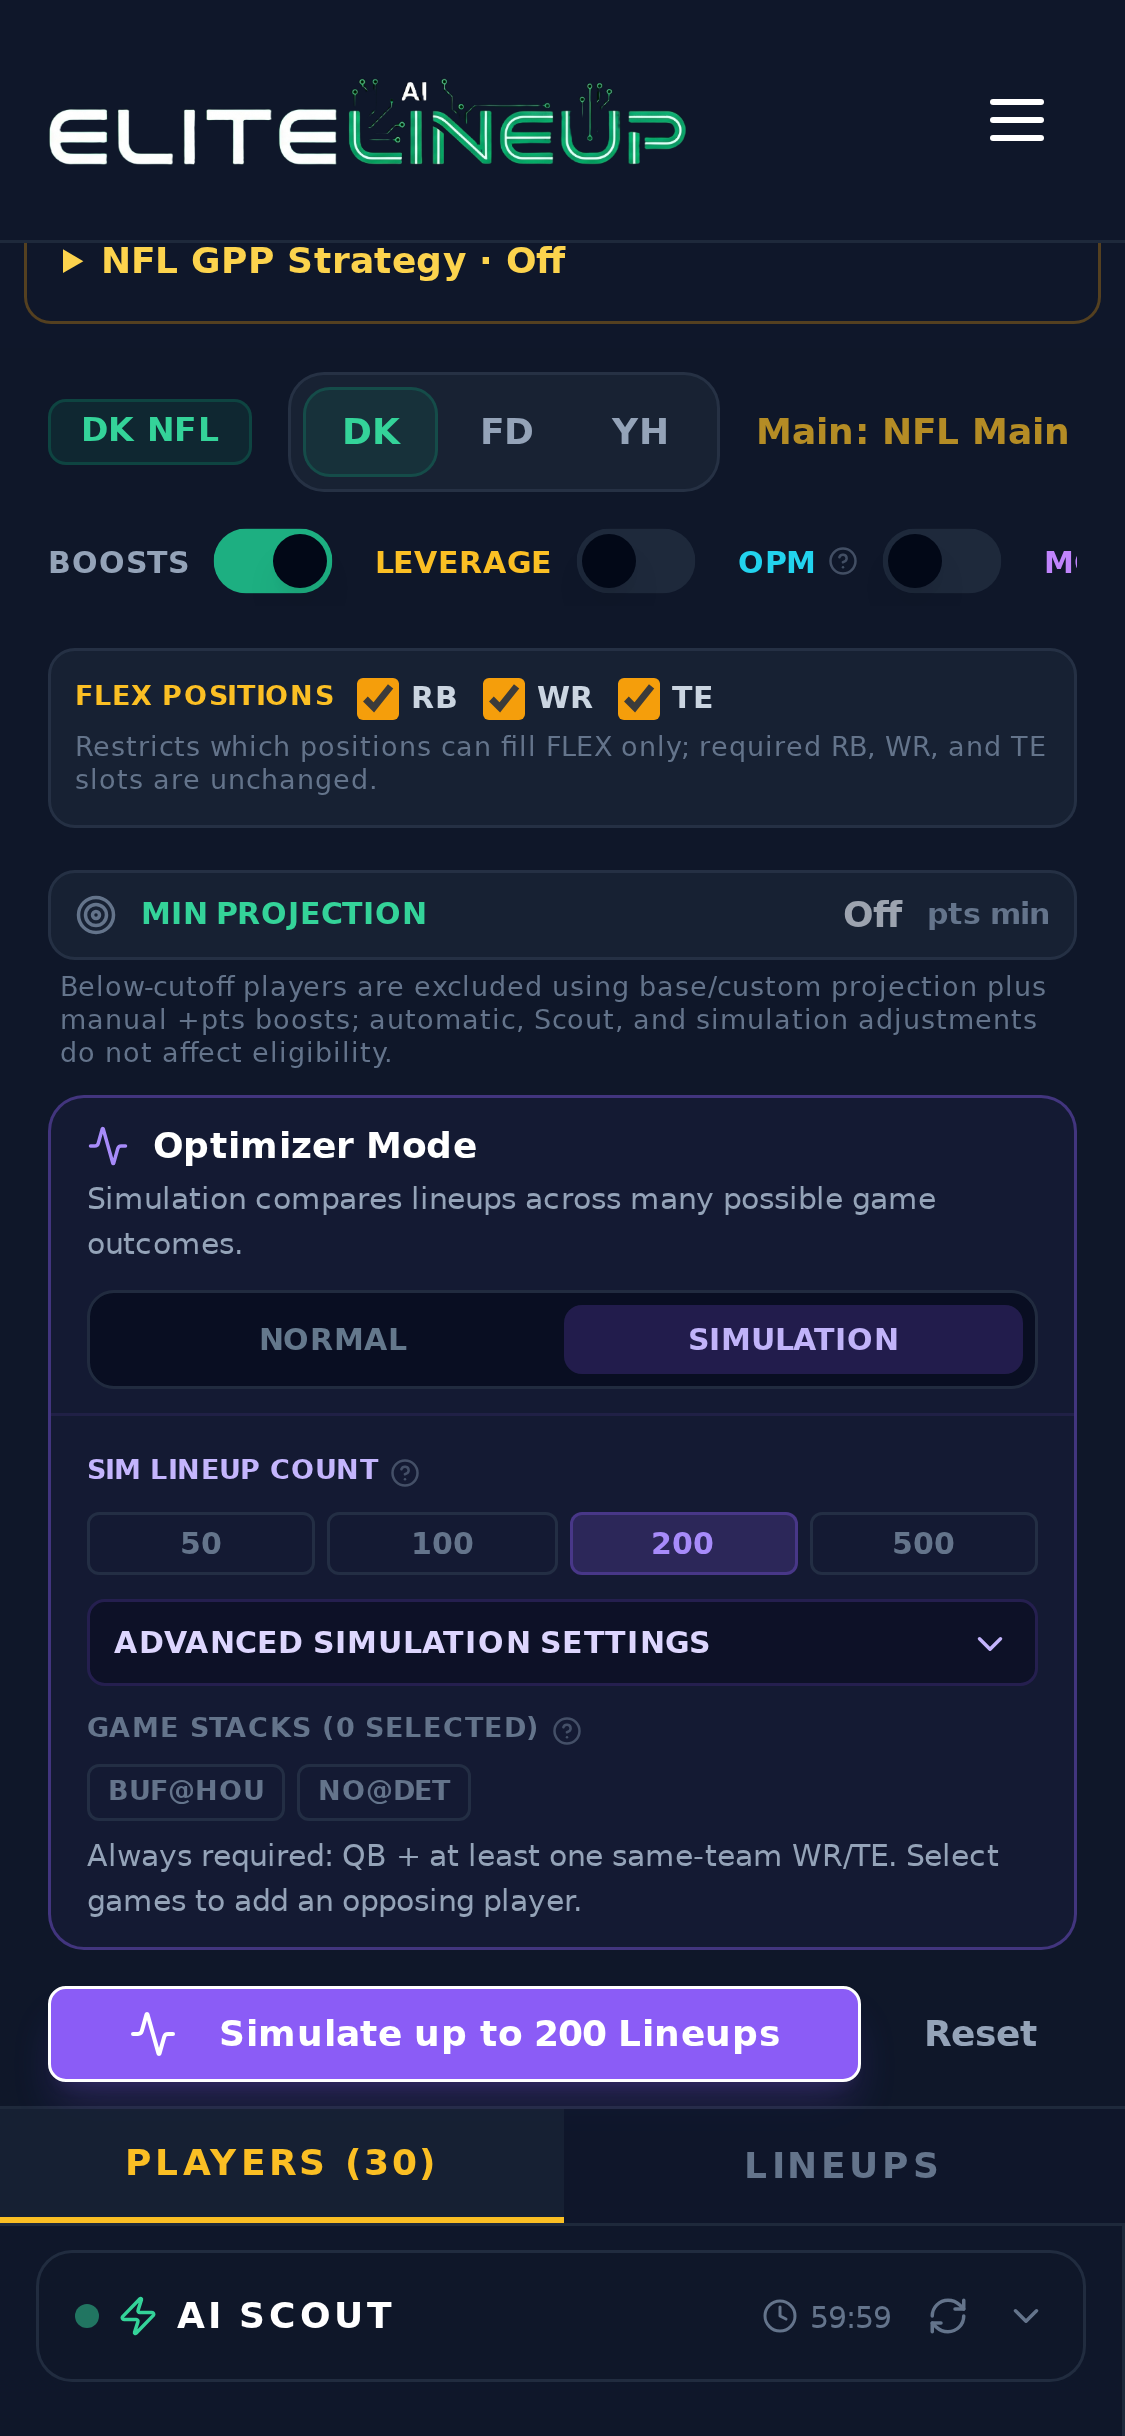
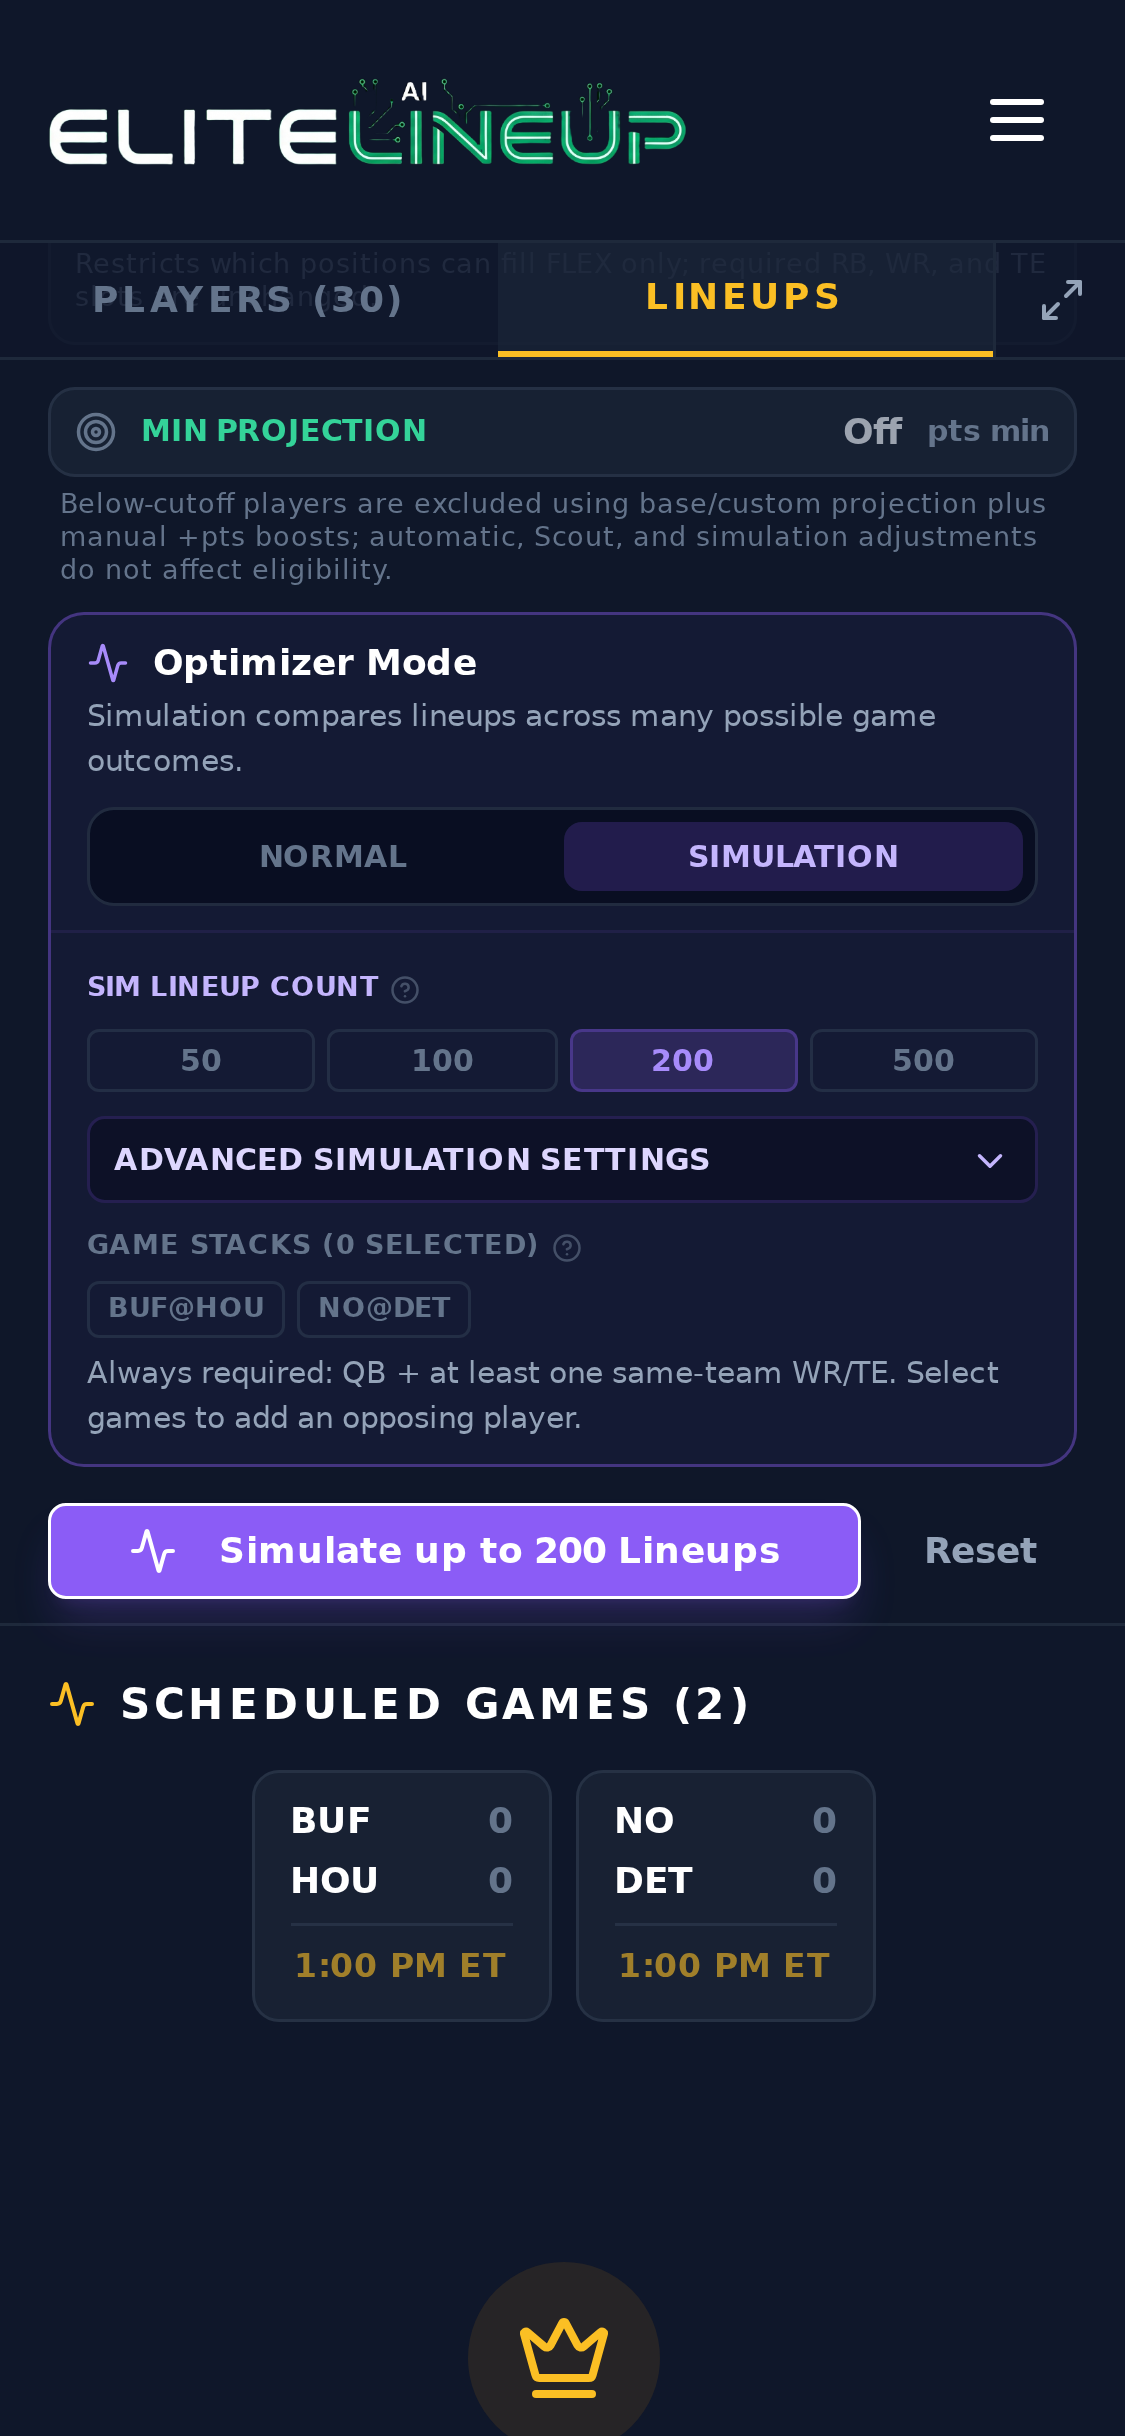
Update optimizer player pool UI and refresh documentation screenshots
Replit-Commit-Author: Agent

diff --git a/client/src/pages/ProOptimizer.tsx b/client/src/pages/ProOptimizer.tsx
@@ -1236,12 +1236,47 @@ export default function ProOptimizer() {
 
   return (
     <div className={`flex flex-col ${playerFocus ? "fixed inset-0 z-50 h-[100dvh] overflow-hidden bg-slate-950" : "min-h-full overflow-visible"}`} data-testid="pro-optimizer-page">
+      {/* Mobile and laptop view switch stays above the long setup controls. */}
+      {!playerFocus && <div className="2xl:hidden flex border-b border-slate-800 bg-slate-900/80 sticky top-0 z-20">
+        <button
+          onClick={() => setMobileView("players")}
+          data-testid="pro-mobile-tab-players"
+          className={`flex-1 px-4 py-2.5 text-xs font-black uppercase tracking-widest transition-all ${
+            mobileView === "players"
+              ? "text-amber-400 border-b-2 border-amber-400 bg-slate-800/50"
+              : "text-slate-500 hover:text-slate-300"
+          }`}
+        >
+          Players {filteredPlayers.length > 0 && `(${filteredPlayers.length})`}
+        </button>
+        <button
+          onClick={() => setMobileView("lineup")}
+          data-testid="pro-mobile-tab-lineup"
+          className={`flex-1 px-4 py-2.5 text-xs font-black uppercase tracking-widest transition-all ${
+            mobileView === "lineup"
+              ? "text-amber-400 border-b-2 border-amber-400 bg-slate-800/50"
+              : "text-slate-500 hover:text-slate-300"
+          }`}
+        >
+          Lineups {optimizeMutation.data ? `(${optimizeMutation.data.lineups?.length || 0})` : ""}
+        </button>
+        <button
+          type="button"
+          onClick={togglePlayerFocus}
+          aria-label="Expand player pool"
+          title="Expand player pool"
+          data-testid="button-player-focus-mobile"
+          className="inline-flex w-11 shrink-0 items-center justify-center border-l border-slate-800 text-slate-400 hover:text-white"
+        >
+          <Maximize2 className="h-4 w-4" />
+        </button>
+      </div>}
       {/* Top Controls Bar */}
-      {!playerFocus && <div className="p-2 space-y-2 max-h-[60vh] overflow-auto">
+      {!playerFocus && <div className={`${mobileView === "players" ? "hidden 2xl:block" : ""} p-2 space-y-2 max-h-[60vh] overflow-auto`}>
         <NflPortfolioControls settings={portfolio.settings} onChange={portfolio.setSettings} supported={portfolioSupported} players={players || []} />
         <NflPortfolioReportView report={portfolio.report} target={`Slate ${slateId} · ${simMode ? "Sim" : "Pro"}`} />
       </div>}
-      {!playerFocus && <div className="border-b border-slate-800 bg-slate-900/60 px-4 py-2">
+      {!playerFocus && <div className={`${mobileView === "players" ? "hidden 2xl:block" : ""} border-b border-slate-800 bg-slate-900/60 px-4 py-2`}>
         <div className="flex flex-col gap-2 md:gap-0">
           {/* Row 1: Slate info + selector */}
           <div className="flex items-center gap-3 overflow-x-auto scrollbar-hide">
@@ -1960,35 +1995,9 @@ export default function ProOptimizer() {
         </div>
       </div>}
 
-      {/* Mobile Tab Toggle */}
-      {!playerFocus && <div className="xl:hidden flex border-b border-slate-800 bg-slate-900/80">
-        <button
-          onClick={() => setMobileView("players")}
-          data-testid="pro-mobile-tab-players"
-          className={`flex-1 px-4 py-2.5 text-xs font-black uppercase tracking-widest transition-all ${
-            mobileView === "players"
-              ? "text-amber-400 border-b-2 border-amber-400 bg-slate-800/50"
-              : "text-slate-500 hover:text-slate-300"
-          }`}
-        >
-          Players {filteredPlayers.length > 0 && `(${filteredPlayers.length})`}
-        </button>
-        <button
-          onClick={() => setMobileView("lineup")}
-          data-testid="pro-mobile-tab-lineup"
-          className={`flex-1 px-4 py-2.5 text-xs font-black uppercase tracking-widest transition-all ${
-            mobileView === "lineup"
-              ? "text-amber-400 border-b-2 border-amber-400 bg-slate-800/50"
-              : "text-slate-500 hover:text-slate-300"
-          }`}
-        >
-          Lineups {optimizeMutation.data ? `(${optimizeMutation.data.lineups?.length || 0})` : ""}
-        </button>
-      </div>}
-
-      <div className="flex min-h-0 flex-1 flex-col xl:flex-row xl:overflow-hidden">
+      <div className="flex min-h-0 flex-1 flex-col 2xl:flex-row 2xl:overflow-hidden">
         {/* LEFT: Player Pool */}
-        <div ref={playerPoolRef} className={`flex min-w-0 flex-1 flex-col border-r border-slate-800 xl:overflow-hidden ${playerFocus ? "w-full min-h-0 overflow-hidden" : ""} ${!playerFocus && mobileView !== "players" ? "hidden xl:flex" : ""}`}>
+        <div ref={playerPoolRef} className={`flex min-w-0 flex-1 flex-col border-r border-slate-800 2xl:overflow-hidden ${playerFocus ? "w-full min-h-0 overflow-hidden" : ""} ${!playerFocus && mobileView !== "players" ? "hidden 2xl:flex" : ""}`}>
           {/* AI Scout Panel */}
           {!playerFocus && <div className="px-3 sm:px-4 pt-2">
             <ScoutPanel
@@ -2719,7 +2728,7 @@ export default function ProOptimizer() {
         </div>
 
         {/* RIGHT: Results & Summary Panels */}
-        <div className={`w-full xl:w-[360px] 2xl:w-[440px] flex-col bg-slate-900/30 xl:overflow-hidden ${playerFocus ? "hidden" : mobileView !== "lineup" ? "hidden xl:flex" : "flex"}`}>
+        <div className={`w-full 2xl:w-[440px] flex-col bg-slate-900/30 2xl:overflow-hidden ${playerFocus ? "hidden" : mobileView !== "lineup" ? "hidden 2xl:flex" : "flex"}`}>
           <div className="min-h-0 flex-1 overflow-auto p-4 space-y-4 xl:max-h-[75dvh]" data-testid="pro-lineup-scroll">
             {/* GOLF Tournament Analysis */}
             {isGolf && golfAnalysis && (

diff --git a/tests/e2e/optimizer-player-pool-focus.spec.ts b/tests/e2e/optimizer-player-pool-focus.spec.ts
@@ -38,7 +38,7 @@ test(`${pro ? "Pro" : "Standard"} optimizer expands the player pool`, async ({ p
     : page.getByTestId(pro ? "pro-mobile-player-pool-scroll" : "mobile-player-pool-scroll");
   await expect(playerViewport).toBeVisible();
   if (testInfo.project.name === "desktop") {
-    for (const width of [1280, 1440, 1536]) {
+    for (const width of [1024, 1280, 1440, 1536]) {
       await page.setViewportSize({ width, height: 800 });
       const dimensions = await playerViewport.evaluate(element => ({
         clientWidth: element.clientWidth,
@@ -48,8 +48,25 @@ test(`${pro ? "Pro" : "Standard"} optimizer expands the player pool`, async ({ p
       }));
       expect(dimensions.scrollWidth, `player table overflows at ${width}px`).toBeLessThanOrEqual(dimensions.clientWidth + 1);
       expect(dimensions.documentWidth, `page overflows at ${width}px`).toBeLessThanOrEqual(dimensions.viewportWidth + 1);
+      if (width < 1536) {
+        await expect(page.getByTestId(pro ? "pro-mobile-tab-players" : "mobile-tab-players")).toBeVisible();
+      } else {
+        await expect(page.getByTestId(pro ? "pro-mobile-tab-players" : "mobile-tab-players")).toBeHidden();
+      }
     }
     await page.setViewportSize({ width: 1280, height: 800 });
+  } else {
+    await expect(page.getByTestId("button-player-focus-mobile")).toBeVisible();
+    await page.getByTestId("button-player-focus-mobile").click();
+    await expect(page.getByTestId("button-player-focus")).toHaveAttribute("aria-pressed", "true");
+    await expect(playerViewport.getByText("Fixture Player 1", { exact: true })).toBeInViewport();
+    await page.getByTestId("button-player-focus").click();
+    await expect(page.getByTestId("button-player-focus")).toHaveAttribute("aria-pressed", "false");
+    const dimensions = await page.evaluate(() => ({
+      documentWidth: document.documentElement.scrollWidth,
+      viewportWidth: window.innerWidth,
+    }));
+    expect(dimensions.documentWidth, "phone layout overflows horizontally").toBeLessThanOrEqual(dimensions.viewportWidth + 1);
   }
   const lastPlayer = playerViewport.getByText("Fixture Player 30", { exact: true });
   await lastPlayer.scrollIntoViewIfNeeded();
@@ -57,6 +74,7 @@ test(`${pro ? "Pro" : "Standard"} optimizer expands the player pool`, async ({ p
   await playerViewport.evaluate(element => { element.scrollTop = 0; });
   await expect(page.getByTestId("nfl-rookie-filter-helper")).toHaveCount(0);
   if (pro) {
+  await page.getByTestId("pro-mobile-tab-lineup").click();
   await page.getByTestId("btn-sim-mode-toggle").click();
   await expect(page.getByTestId("button-toggle-sim-settings")).toHaveAttribute("aria-expanded", "false");
   await expect(page.getByTestId("btn-stack-game-BUF-HOU")).toBeVisible();
@@ -68,6 +86,7 @@ test(`${pro ? "Pro" : "Standard"} optimizer expands the player pool`, async ({ p
   await page.getByTestId("btn-stack-game-BUF-HOU").click();
   await expect(page.getByTestId("btn-stack-game-BUF-HOU")).toHaveAttribute("aria-pressed", "true");
   await page.screenshot({ path: `screenshots/pro-optimizer-player-pool-expanded-${testInfo.project.name}.png`, fullPage: false });
+  await page.getByTestId("pro-mobile-tab-players").click();
   }
 
   await page.getByTestId("button-player-focus").click();

diff --git a/client/src/pages/Optimizer.tsx b/client/src/pages/Optimizer.tsx
@@ -734,9 +734,9 @@ export default function Optimizer() {
   };
 
   return (
-    <div className={`flex flex-col xl:flex-row ${playerFocus ? "fixed inset-0 z-50 h-[100dvh] overflow-hidden bg-slate-950" : "min-h-full overflow-visible"}`}>
+    <div className={`flex flex-col 2xl:flex-row ${playerFocus ? "fixed inset-0 z-50 h-[100dvh] overflow-hidden bg-slate-950" : "min-h-full overflow-visible"}`}>
       {/* Mobile Tab Toggle */}
-      {!playerFocus && <div className="xl:hidden flex border-b border-slate-800 bg-slate-900/80 sticky top-0 z-20">
+      {!playerFocus && <div className="2xl:hidden flex border-b border-slate-800 bg-slate-900/80 sticky top-0 z-20">
         <button
           onClick={() => setMobileView("players")}
           data-testid="mobile-tab-players"
@@ -763,6 +763,16 @@ export default function Optimizer() {
           {currentLineup && mobileView !== "lineup" && (
             <span className={`absolute top-1 right-2 w-2 h-2 rounded-full animate-pulse ${pColors.bg}`} />
           )}
+        </button>
+        <button
+          type="button"
+          onClick={togglePlayerFocus}
+          aria-label="Expand player pool"
+          title="Expand player pool"
+          data-testid="button-player-focus-mobile"
+          className="inline-flex w-11 shrink-0 items-center justify-center border-l border-slate-800 text-slate-400 hover:text-white"
+        >
+          <Maximize2 className="h-4 w-4" />
         </button>
       </div>}
 
@@ -809,7 +819,7 @@ export default function Optimizer() {
       </div>}
 
       {/* LEFT: Player Pool */}
-      <div ref={playerPoolRef} className={`flex min-w-0 flex-1 flex-col border-r border-slate-800 xl:overflow-hidden ${playerFocus ? "w-full min-h-0 overflow-hidden" : ""} ${!playerFocus && mobileView !== "players" ? "hidden xl:flex" : ""}`}>
+      <div ref={playerPoolRef} className={`flex min-w-0 flex-1 flex-col border-r border-slate-800 2xl:overflow-hidden ${playerFocus ? "w-full min-h-0 overflow-hidden" : ""} ${!playerFocus && mobileView !== "players" ? "hidden 2xl:flex" : ""}`}>
         {/* Top Bar */}
         {!playerFocus && <div className="relative border-b border-slate-800 overflow-hidden">
           <div className="absolute inset-0">
@@ -1532,7 +1542,7 @@ export default function Optimizer() {
       </div>
 
       {/* RIGHT: Lineup Builder */}
-      <div className={`w-full xl:w-[360px] 2xl:w-[400px] flex-col bg-slate-900/30 border-l border-slate-800 xl:overflow-hidden ${playerFocus ? "hidden" : mobileView !== "lineup" ? "hidden xl:flex" : "flex"}`}>
+      <div className={`w-full 2xl:w-[400px] flex-col bg-slate-900/30 border-l border-slate-800 2xl:overflow-hidden ${playerFocus ? "hidden" : mobileView !== "lineup" ? "hidden 2xl:flex" : "flex"}`}>
         <div className="p-2 space-y-2 max-h-[60vh] overflow-auto">
           <NflPortfolioControls settings={portfolio.settings} onChange={portfolio.setSettings} supported={portfolioSupported} players={players || []} single />
           <NflPortfolioReportView report={portfolio.report} target={`Slate ${slateId}`} />

diff --git a/client/src/index.css b/client/src/index.css
@@ -54,6 +54,13 @@
       padding-right: 0.375rem;
     }
   }
+  @media (min-width: 1024px) and (max-width: 1279px) {
+    .optimizer-data-table th,
+    .optimizer-data-table td {
+      padding-left: 0.25rem;
+      padding-right: 0.25rem;
+    }
+  }
   .btn-primary {
     @apply bg-[#10B981] text-white hover:bg-[#059669] transition-all duration-200 shadow-lg shadow-emerald-500/10;
   }
